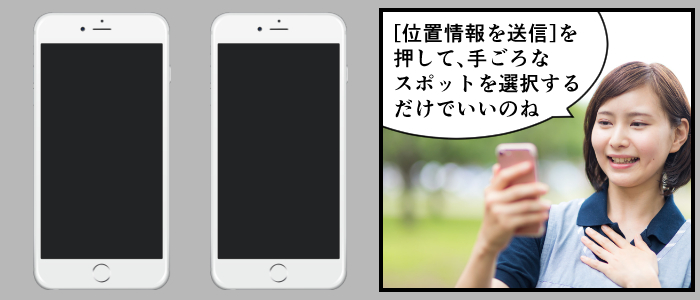
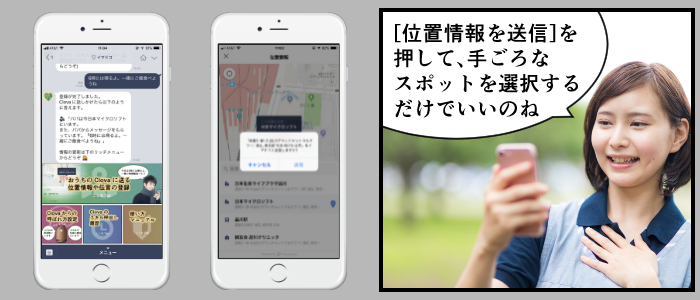
サイト仕上げ（アプリスクショなどインプリ）

Changed region(s): [[0.3, 0.15, 0.51, 0.87], [0.06, 0.15, 0.24, 0.87]]

diff --git a/docs/index.html b/docs/index.html
@@ -61,7 +61,7 @@
         <div class="col-lg-7 my-auto">
           <div class="header-content mx-auto">
             <h1 class="mb-5">『イマドコ』は、<br />貴方の大切な家族が<br />今どこだと教えてくれる<br />LINE Clova スキルです</h1>
-            <a href="#download" class="btn btn-outline btn-xl js-scroll-trigger">無料で始める</a>
+            <img src="img/forSubmittingToStore/SkillBanner.png" width="80%" />
           </div>
         </div>
         <div class="col-lg-5 my-auto">
@@ -70,7 +70,7 @@
               <div class="device">
                 <div class="screen">
                   <!-- Demo image for screen mockup, you can put an image here, some HTML, an animation, video, or anything else! -->
-                  <img src="img/demo-screen-1.jpg" class="img-fluid" alt="">
+                  <img src="img/screen.gif" class="img-fluid" alt="">
                 </div>
                 <div class="button">
                   <!-- You can hook the"home button" to some JavaScript events or just remove it -->
@@ -96,7 +96,8 @@
           26, 2018</a>
       </blockquote>
       <script async src="https://platform.twitter.com/widgets.js" charset="utf-8"></script>
-      <p>もし、家でパパの帰りを待つ子どもが、スマートスピーカーに「今どこ？」と聞けたら。</p>
+      <p>もし、家でパパの帰りを待つ子どもが、スマートスピーカーに「今どこ？」と聞いて、今どこにいると答えてくれたら。</p>
+      <p>もし、パパの声で「6時に帰るよ」などメッセージを喋ってくれたら。</p>
       <p>もし、LINE という使い慣れたツールから、スマートスピーカーを通して、<br />気軽に「今どこにいる」「帰りは何時頃になる」と子どもに伝言を残せたら。</p>
       <p>技術で人を幸せにしたい。そんな思いから開発に入りました。</p>
     </div>
@@ -126,7 +127,7 @@
         </div>
         <div class="col-md-5">
           <h3>場所と伝言を伝えてくれる</h3>
-          <p>『イマドコ』が Clova から起動されると、スマホから登録された位置情報と伝言が伝えられます。</p>
+          <p>『イマドコ』が Clova から起動されると、スマホから登録された位置情報と伝言が伝えられます。ボイスメッセージにも対応しているので、「今日は５時に帰るから一緒に晩御飯食べようね」などと自分の声で Clova に喋らせることもできます。</p>
         </div>
       </div>
       <!-- /.row -->
@@ -186,8 +187,9 @@
   <section class="features" id="features">
     <div class="container">
       <div class="section-heading text-center">
-        <h2>『イマドコ』で出来ること</h2>
-        <p class="text-muted">あああああああああああああああああああ</p>
+        <h2>スマホ側の『イマドコ』で出来ること</h2>
+        <p class="text-muted">おうちの Clova に喋らせる内容を、スマホの LINE から簡単に設定できます</p>
+        
         <hr>
       </div>
       <div class="row">
@@ -197,7 +199,7 @@
               <div class="device">
                 <div class="screen">
                   <!-- Demo image for screen mockup, you can put an image here, some HTML, an animation, video, or anything else! -->
-                  <img src="img/demo-screen-1.jpg" class="img-fluid" alt="">
+                  <img src="img/screen/demo-screen-1.jpg" class="img-fluid" alt="">
                 </div>
                 <div class="button">
                   <!-- You can hook the"home button" to some JavaScript events or just remove it -->
@@ -206,45 +208,37 @@
             </div>
           </div>
         </div>
-        <div class="col-lg-8 my-auto">
-          <div class="container-fluid">
-            <div class="row">
-              <div class="col-lg-6">
-                <div class="feature-item">
-                  <i class="icon-screen-smartphone text-primary"></i>
-                  <h3>位置情報や伝言を Clova に</h3>
-                  <p class="text-muted">ああああああああああああああああああああああああああああああああああああ</p>
+        <div class="col-lg-4 my-auto">
+          <div class="device-container">
+            <div class="device-mockup iphone6_plus portrait white">
+              <div class="device">
+                <div class="screen">
+                  <!-- Demo image for screen mockup, you can put an image here, some HTML, an animation, video, or anything else! -->
+                  <img src="img/screen/2.png" class="img-fluid" alt="">
                 </div>
-              </div>
-              <div class="col-lg-6">
-                <div class="feature-item">
-                  <i class="icon-camera text-primary"></i>
-                  <h3>音声操作なので小さなお子様やご年配の方にも</h3>
-                  <p class="text-muted">ああああああああああああああああああああああああああああああああああああ</p>
+                <div class="button">
+                  <!-- You can hook the"home button" to some JavaScript events or just remove it -->
                 </div>
               </div>
             </div>
-            <div class="row">
-              <div class="col-lg-6">
-                <div class="feature-item">
-                  <i class="icon-present text-primary"></i>
-                  <h3>履歴機能</h3>
-                  <p class="text-muted">ああああああああああああああああああああああああああああああああああああ</p>
+          </div>
+        </div>
+        <div class="col-lg-4 my-auto">
+          <div class="device-container">
+            <div class="device-mockup iphone6_plus portrait white">
+              <div class="device">
+                <div class="screen">
+                  <!-- Demo image for screen mockup, you can put an image here, some HTML, an animation, video, or anything else! -->
+                  <img src="img/screen/3.png" class="img-fluid" alt="">
                 </div>
-              </div>
-              <div class="col-lg-6">
-                <div class="feature-item">
-                  <i class="icon-lock-open text-primary"></i>
-                  <h3>Open Source</h3>
-                  <p class="text-muted">エンジニアの皆さま。このスキルは<a href="https://github.com/MangaClova/LINEDoko" target="_blank">完全にオープンソースで開発されている</a>ので、何か機能追加のリクエストなどありましたら、どんどん
-                    Pull Request や issue 登録をお待ちしています</p>
+                <div class="button">
+                  <!-- You can hook the"home button" to some JavaScript events or just remove it -->
                 </div>
               </div>
             </div>
           </div>
         </div>
       </div>
-    </div>
   </section>
 
   <section class="contact bg-secondary text-light" id="aboutus">
@@ -268,10 +262,10 @@
         <div class="col-lg-4 col-sm-6 text-center mb-4">
           <img class="rounded-circle border border-light img-fluid d-block mx-auto" src="img/member/llminatoll.png" alt="湊川あい">
           <h3>湊川あい
-              <small>
-                <a href="https://twitter.com/llminatoll" target="_blank"><i class="fab fa-twitter"></i></a>
-                <a href="https://llminatoll.github.io/" target="_blank"><i class="fas fa-home"></i></a>
-              </small>
+            <small>
+              <a href="https://twitter.com/llminatoll" target="_blank"><i class="fab fa-twitter"></i></a>
+              <a href="https://llminatoll.github.io/" target="_blank"><i class="fas fa-home"></i></a>
+            </small>
           </h3>
           <p>プランナー/SEO担当</p>
         </div>
@@ -303,8 +297,8 @@
             title="Azure Storage Account" target="_blank">Microsoft Azure ストレージアカウント</a></li>
         <li> LINE bot：<a href="https://developers.line.me/ja/services/messaging-api/" title="LINE Messaging API" target="_blank">LINE
             Messaging API</a></li>
-        <li> Skill の対話モデル作成：<a href="https://clova-developers.line.me/guide/" title="Clova Extensions Kit"
-            target="_blank">Clova Extensions Kit</a></li>
+        <li> Skill の対話モデル作成：<a href="https://clova-developers.line.me/guide/" title="Clova Extensions Kit" target="_blank">Clova
+            Extensions Kit</a></li>
         <li> Clova Extension Kit を C# で使うための SDK：<a href="https://github.com/kenakamu/clova-cek-sdk-csharp" title="Clova CEK SDK C#"
             target="_blank">Clova CEK SDK C#</a></li>
         <li> LINE Messaging API を C# で使うための SDK：<a href="https://github.com/pierre3/LineMessagingApi" title="LINE Messaging API for C#"
@@ -317,8 +311,8 @@
           <a href="https://pages.github.com/" title="GitHub Pages" target="_blank">GitHub Pages</a></li>
         <li> Webページフレームワーク：
           <a href="https://getbootstrap.com/" title="Bootstrap" target="_blank">Bootstrap (v4)</a></li>
-          <li> Twitter とか check box とかの汎用アイコンフォント集：
-            <a href="https://fontawesome.com/" title="Font Awesome" target="_blank">Font Awesome</a></li>
+        <li> Twitter とか check box とかの汎用アイコンフォント集：
+          <a href="https://fontawesome.com/" title="Font Awesome" target="_blank">Font Awesome</a></li>
       </ul>
       <h3 class="my-4">CI/CD</h3>
       <ul>
@@ -326,7 +320,8 @@
             DevOps
           </a></li>
         <li>チームのタスク管理：<a href="https://github.com/MangaClova/LINEDoko/projects/1" title="GitHub Projects" target="_blank">GitHub
-            Projects</a></li>
+            Projects
+          </a></li>
       </ul>
     </div>
   </section>
